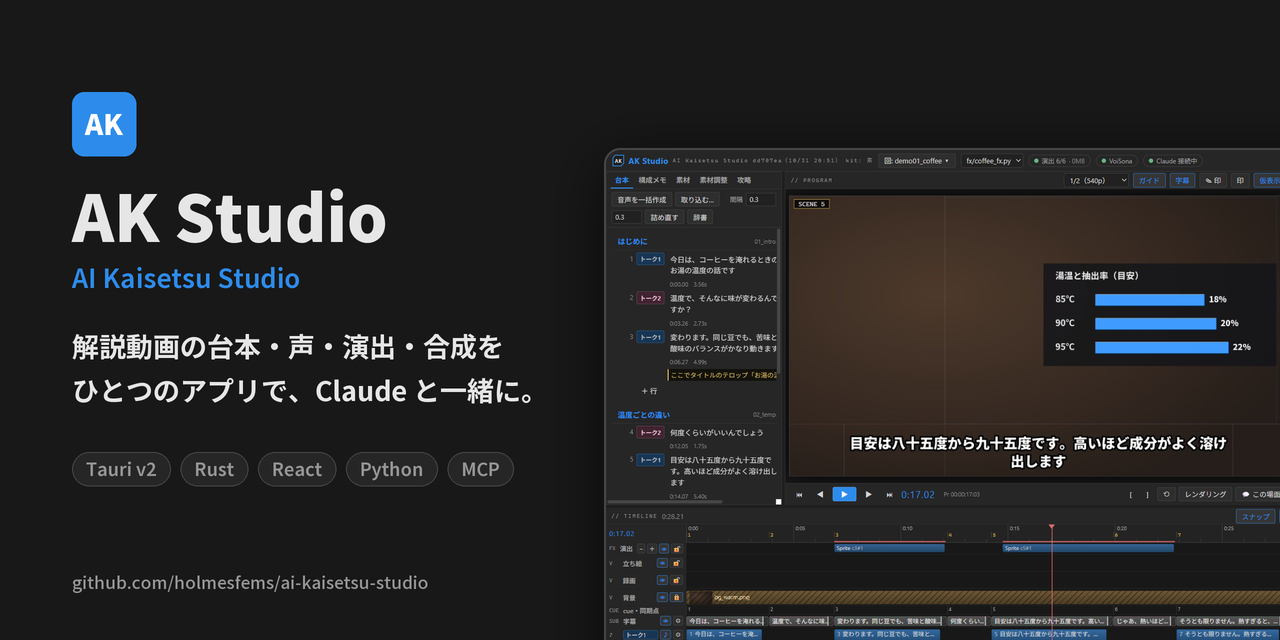
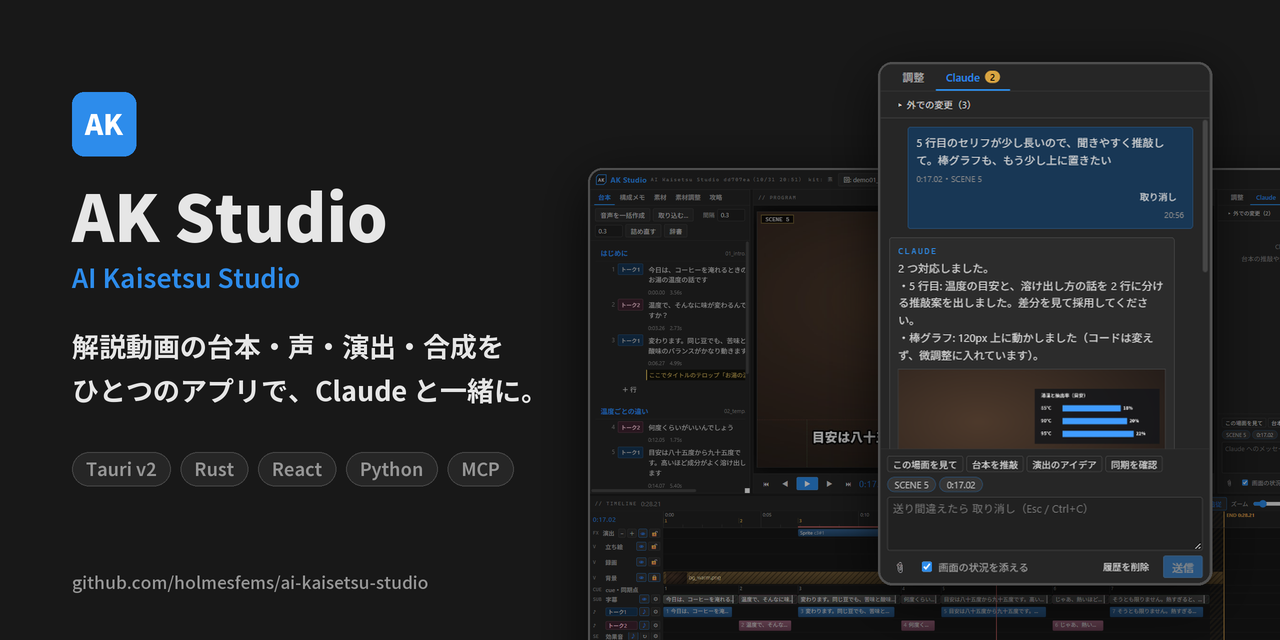
サムネで、Claude とのチャットを手前に大きく出す（画面全体は奥に暗く）

Changed region(s): [[0.4688, 0.0938, 1.0, 1.0], [0.5938, 0.625, 0.625, 0.6562]]

diff --git a/tools/social_preview.py b/tools/social_preview.py
@@ -1,12 +1,12 @@
 """GitHub のソーシャルプレビュー（1280x640）を作る。
 
-使い方: python tools/social_preview.py docs/images/main.png docs/images/social-preview.png
+使い方: python tools/social_preview.py docs/images/main.png docs/images/chat.png docs/images/social-preview.png
 フォントは Windows の Noto Sans JP（C:/Windows/Fonts/NotoSansJP-VF.ttf）。
 """
 import sys
 from PIL import Image, ImageDraw, ImageFilter, ImageFont
 
-SHOT, OUT = sys.argv[1], sys.argv[2]
+SHOT, CHAT, OUT = sys.argv[1], sys.argv[2], sys.argv[3]
 W, H, S = 1280, 640, 2  # 2 倍で描いて縮める
 BG, PANEL, TEXT, DIM, ACCENT = (24, 24, 24), (38, 38, 38), (230, 230, 230), (150, 150, 150), (45, 140, 235)
 
@@ -21,22 +21,27 @@ def jp(size, wght):
 
 
 im = Image.new("RGB", (W * S, H * S), BG)
-d = ImageDraw.Draw(im)
 
-# 右: 画面のスクリーンショット（右下にはみ出させる）
-shot = Image.open(SHOT).convert("RGB")
-sw = 900 * S
-shot = shot.resize((sw, int(shot.height * sw / shot.width)), Image.LANCZOS)
-sx, sy = 606 * S, 150 * S
-mask = Image.new("L", shot.size, 0)
-ImageDraw.Draw(mask).rounded_rectangle([0, 0, shot.width - 1, shot.height - 1], 14 * S, fill=255)
-shadow = Image.new("L", (im.width, im.height), 0)
-ImageDraw.Draw(shadow).rounded_rectangle([sx, sy + 12 * S, sx + shot.width, sy + shot.height + 12 * S], 14 * S, fill=170)
-shadow = shadow.filter(ImageFilter.GaussianBlur(28 * S))
-im.paste((0, 0, 0), (0, 0), shadow)
+def card(img, x, y, w, dim=0.0):
+    """スクリーンショットを角丸・影・縁つきで置く。dim で暗くする（奥に置くもの）。"""
+    img = img.convert("RGB")
+    img = img.resize((w, int(img.height * w / img.width)), Image.LANCZOS)
+    if dim:
+        img = Image.blend(img, Image.new("RGB", img.size, (0, 0, 0)), dim)
+    mask = Image.new("L", img.size, 0)
+    ImageDraw.Draw(mask).rounded_rectangle([0, 0, img.width - 1, img.height - 1], 12 * S, fill=255)
+    shadow = Image.new("L", im.size, 0)
+    ImageDraw.Draw(shadow).rounded_rectangle([x, y + 14 * S, x + img.width, y + img.height + 14 * S], 12 * S, fill=190)
+    im.paste((0, 0, 0), (0, 0), shadow.filter(ImageFilter.GaussianBlur(26 * S)))
+    ImageDraw.Draw(im).rounded_rectangle([x - 2 * S, y - 2 * S, x + img.width + 2 * S, y + img.height + 2 * S], 14 * S,
+                                         fill=(80, 80, 80))
+    im.paste(img, (x, y), mask)
+
+
+# 右: 奥に画面全体、手前に Claude とのチャット（このアプリの売り）
+card(Image.open(SHOT), 590 * S, 170 * S, 820 * S, dim=0.35)
+card(Image.open(CHAT), 880 * S, 64 * S, 330 * S)
 d = ImageDraw.Draw(im)
-d.rounded_rectangle([sx - 2 * S, sy - 2 * S, sx + shot.width + 2 * S, sy + shot.height + 2 * S], 16 * S, fill=(70, 70, 70))
-im.paste(shot, (sx, sy), mask)
 
 # 左: 文字
 x = 72 * S
